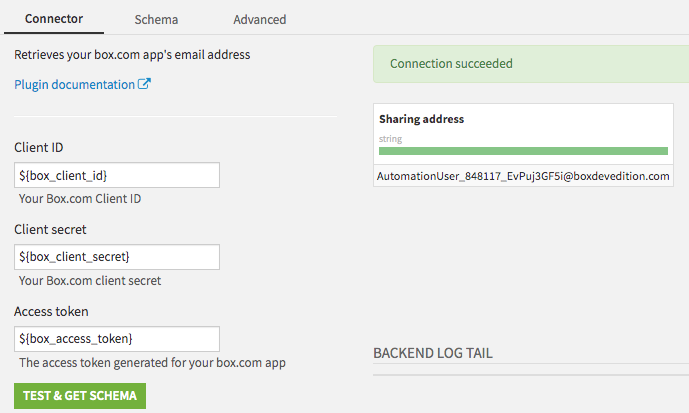
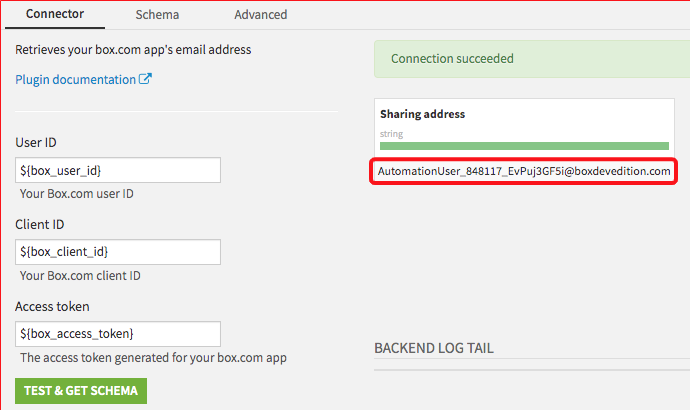
Clearer user instructions

diff --git a/python-fs-providers/box-com_box-com/fs-provider.py b/python-fs-providers/box-com_box-com/fs-provider.py
@@ -19,7 +19,8 @@ class BoxComFSProvider(FSProvider):
         self.client_id = config.get("client_id")
         self.client_secret = config.get("client_secret")
         self.access_token = config.get("access_token")
-        auth = OAuth2(client_id=self.client_id,
+        auth = OAuth2(
+            client_id=self.client_id,
             client_secret=self.client_secret,
             access_token=self.access_token
         )
@@ -72,7 +73,7 @@ class BoxComFSProvider(FSProvider):
 
         return ret
     
-    def get_box_item(self, path, create_if_not_exist=False):
+    def get_box_item(self, path):
         path = self.get_rel_path(path)
         item_id = '0'
         if path == '':
@@ -90,11 +91,7 @@ class BoxComFSProvider(FSProvider):
                     found = True
                     break
             if found == False:
-                if create_if_not_exist:
-                    new_folder = self.client.folder(item_id).create_subfolder(elt)
-                    item_id = new_folder.id
-                else:
-                    return None, None
+                return None, None
         
         return item_id, item_type
 
@@ -117,8 +114,6 @@ class BoxComFSProvider(FSProvider):
             children = []
             folder_id = item_id
             for sub in self.client.folder(folder_id=folder_id).get_items():
-                print('sub:{0}'.format(sub))
-                sub_full_path = os.path.join(full_path, sub.name)
                 sub_path = self.get_normalized_path(os.path.join(full_path, sub.name))
                 child_details = self.get_box_item_details(sub.id, sub.type)
                 children.append({'fullPath' : sub_path, 'exists' : True, 'directory' : sub.type == "folder", 'size' : child_details.size})
@@ -189,7 +184,7 @@ class BoxComFSProvider(FSProvider):
                 byte_range = (0, int(limit) - 1)
             else:
                 byte_range = None
-        file_id, item_type = self.get_box_item(full_path)
+        file_id, _ = self.get_box_item(full_path)
         if file_id == None:
             raise Exception('Path doesn t exist')
         if byte_range:

diff --git a/python-connectors/box-com_check-box-parameters/connector.py b/python-connectors/box-com_check-box-parameters/connector.py
@@ -13,7 +13,8 @@ class BoxComConnector(Connector):
         self.client_secret = self.config.get("client_secret")
         self.access_token = self.config.get("access_token")
         
-        auth = OAuth2(client_id=self.client_id,
+        auth = OAuth2(
+            client_id=self.client_id,
             client_secret=self.client_secret,
             access_token=self.access_token
         )
@@ -25,7 +26,7 @@ class BoxComConnector(Connector):
 
     def generate_rows(self, dataset_schema=None, dataset_partitioning=None,
                             partition_id=None, records_limit = -1):
-        yield {"Sharing address": self.user.login}
+        yield {"Share your Box.com content with the address below": self.user.login}
 
 
     def get_writer(self, dataset_schema=None, dataset_partitioning=None,

diff --git a/README.md b/README.md
@@ -24,30 +24,29 @@ You need to install the plugin in Dataiku DSS. Go to the *Administration > Plugi
 
 Create a new dataset using the plugin. You have 3 parameters to fill. Click on the button **Test** & **Get schema** button. Then, **save** and **explore**.
 
-In order to use the plugin, you will need to create an app on your box.com account. 
+In order to use the plugin, the administrator of the box.com account will have to create an box.com app: 
 
-1. Go to your [box.com account page](https://app.box.com/account) and upgrade to developper.
-2. From the [developers console](https://app.box.com/developers/console), create a new custom app.
+1. As administrator, go to your [box.com account page](https://app.box.com/account) and upgrade to developper.
+2. From the administrator's [developers console](https://app.box.com/developers/console), create a new Partner Integration.
 ![](images/select_app_type.png)
-3. Select the **App Token (Server Authentication)** authentication method.
-4. Name your app.
+3. Name your app.
 > People given access to this app will be able to access all files shared to it. Where access to dataset must be restricted to a given group, make and name a separate app for this purpose.
-5. From the App general panel, copy the *User ID*.
-6. From the App configuration panel, copy the *Client ID* and create and copy a secondary access token.
+4. From the App general panel, copy the *User ID*.
+5. From the App configuration panel, copy the *Client ID* and create and copy a secondary access token.
 ![](images/app_config.png)
 
 Once you have you User ID, Client ID and access token, you will be able to retrieve the app's sharing email address. To do so:
-1. In your project, create a Box.com dataset
+1. Inside a DSS project, create a Box.com dataset
 ![](images/create_dataset.png)
 2. Select **Check Parameters**
 ![](images/plugin.png)
 3. Fill in the connection credentials and press **Test & get schema**
-> To avoid filling in the connection details in every bonx.com dataset of your project, your can instead set them as project variables as :
+> To avoid filling in the connection details in every box.com dataset of your project, your can instead set them as project variables as :
 ```json
 {
   "box_access_token": "1234abc...",
-  "box_client_secret": "5678def...",
-  "box_client_id": "9876543210"
+  "box_client_id": "5678def...",
+  "box_user_id": "9876543210"
 }
 ```
 4. Copy the email address returned in the array.
